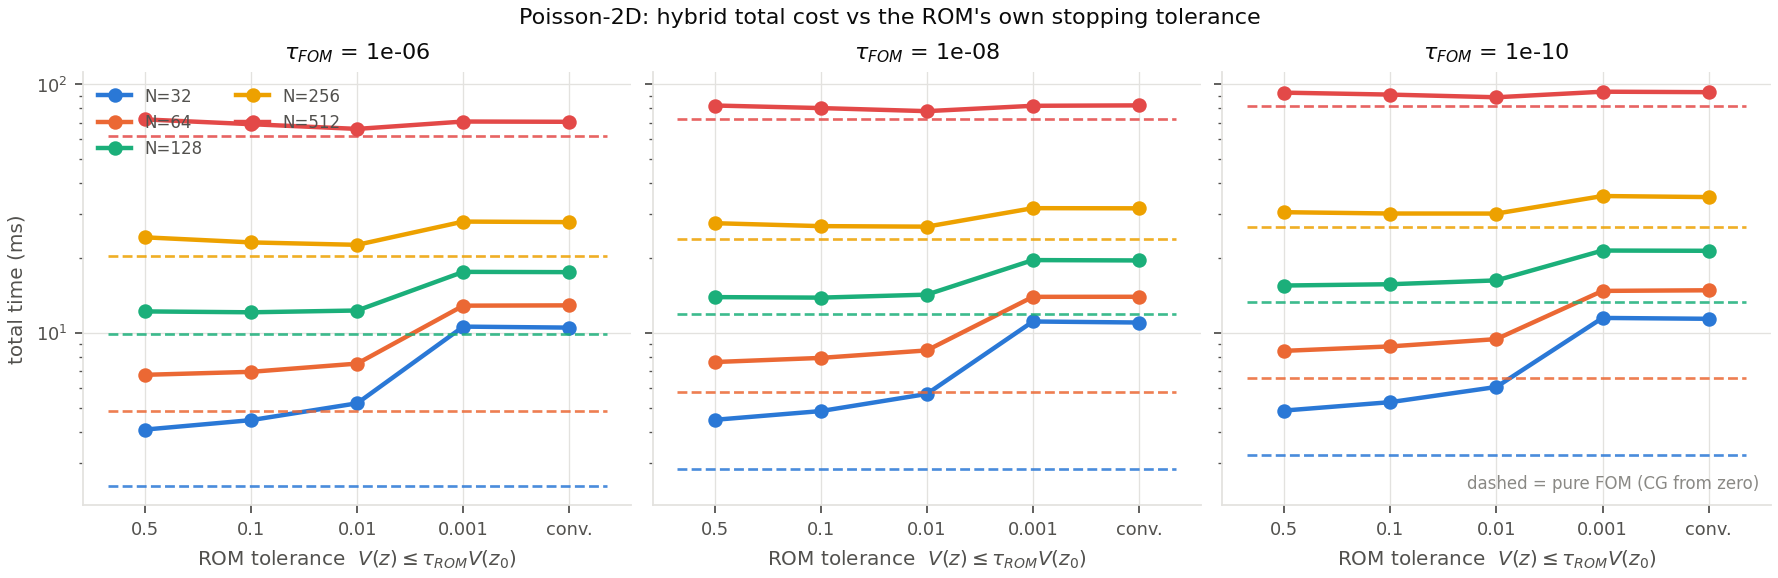
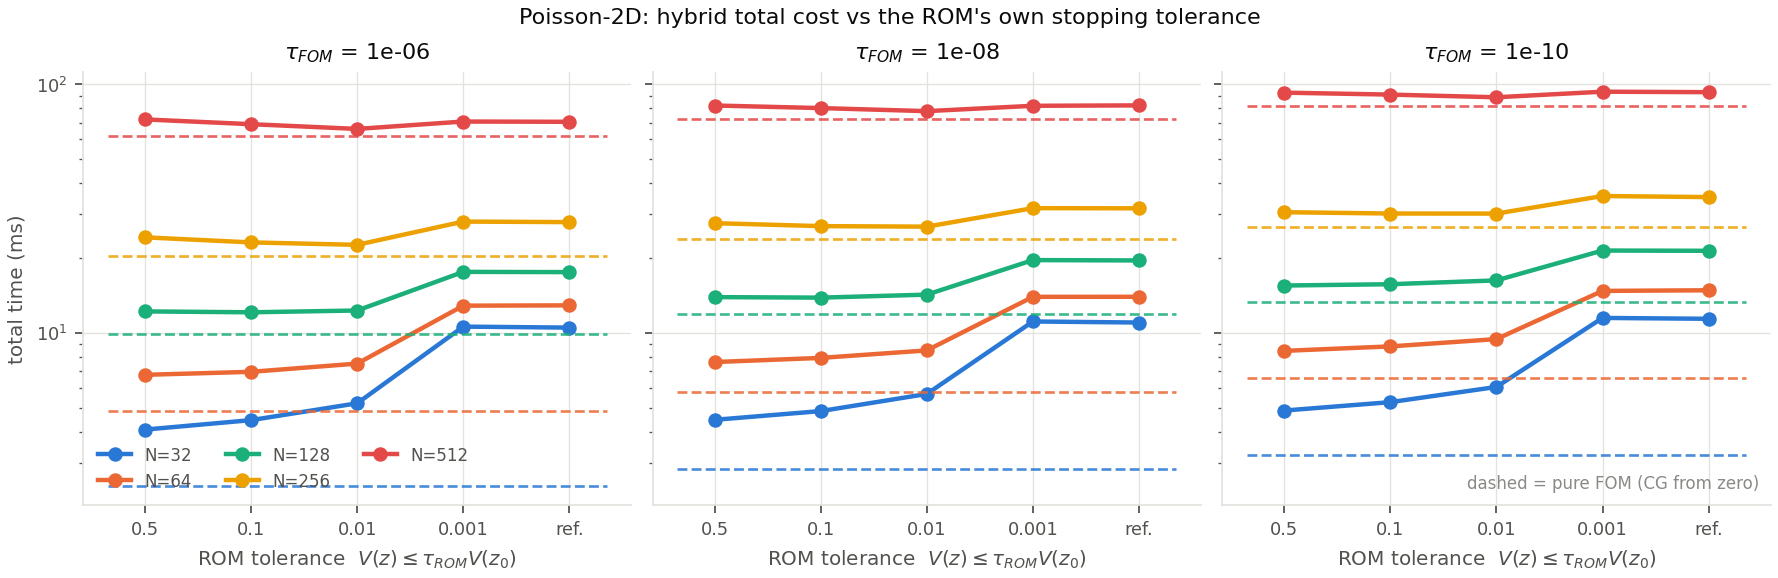
rom-warmstart-fom: figure label consistency (rom_tau=0 is 'ref.', not 'conv.') and legend placement

diff --git a/experiments/rom-warmstart-fom/wsf_figs.py b/experiments/rom-warmstart-fom/wsf_figs.py
@@ -49,7 +49,9 @@ def load():
 
 
 def taulab(t):
-    return "conv." if not t else f"{t:g}"
+    # matches SUMMARY_TABLES/README: rom_tau=0 DISABLES the objective test, so the
+    # reference LM's own rules stop it -- that is not the same as "converged"
+    return "ref." if not t else f"{t:g}"
 
 
 # --------------------------------------------------------------- Poisson headline
@@ -79,7 +81,7 @@ def fig_poisson_total_vs_tau(P, paths):
         ax.set_title(f"$\\tau_{{FOM}}$ = {ft:g}")
         st.clean(ax)
     axes[0].set_ylabel("total time (ms)")
-    axes[0].legend(ncol=2, loc="upper left", fontsize=7.5)
+    axes[0].legend(ncol=3, loc="lower left", fontsize=7.5)
     axes[-1].text(0.98, 0.03, "dashed = pure FOM (CG from zero)", transform=axes[-1].transAxes,
                   ha="right", va="bottom", fontsize=7.5, color=st.MUTED)
     fig.suptitle("Poisson-2D: hybrid total cost vs the ROM's own stopping tolerance",
